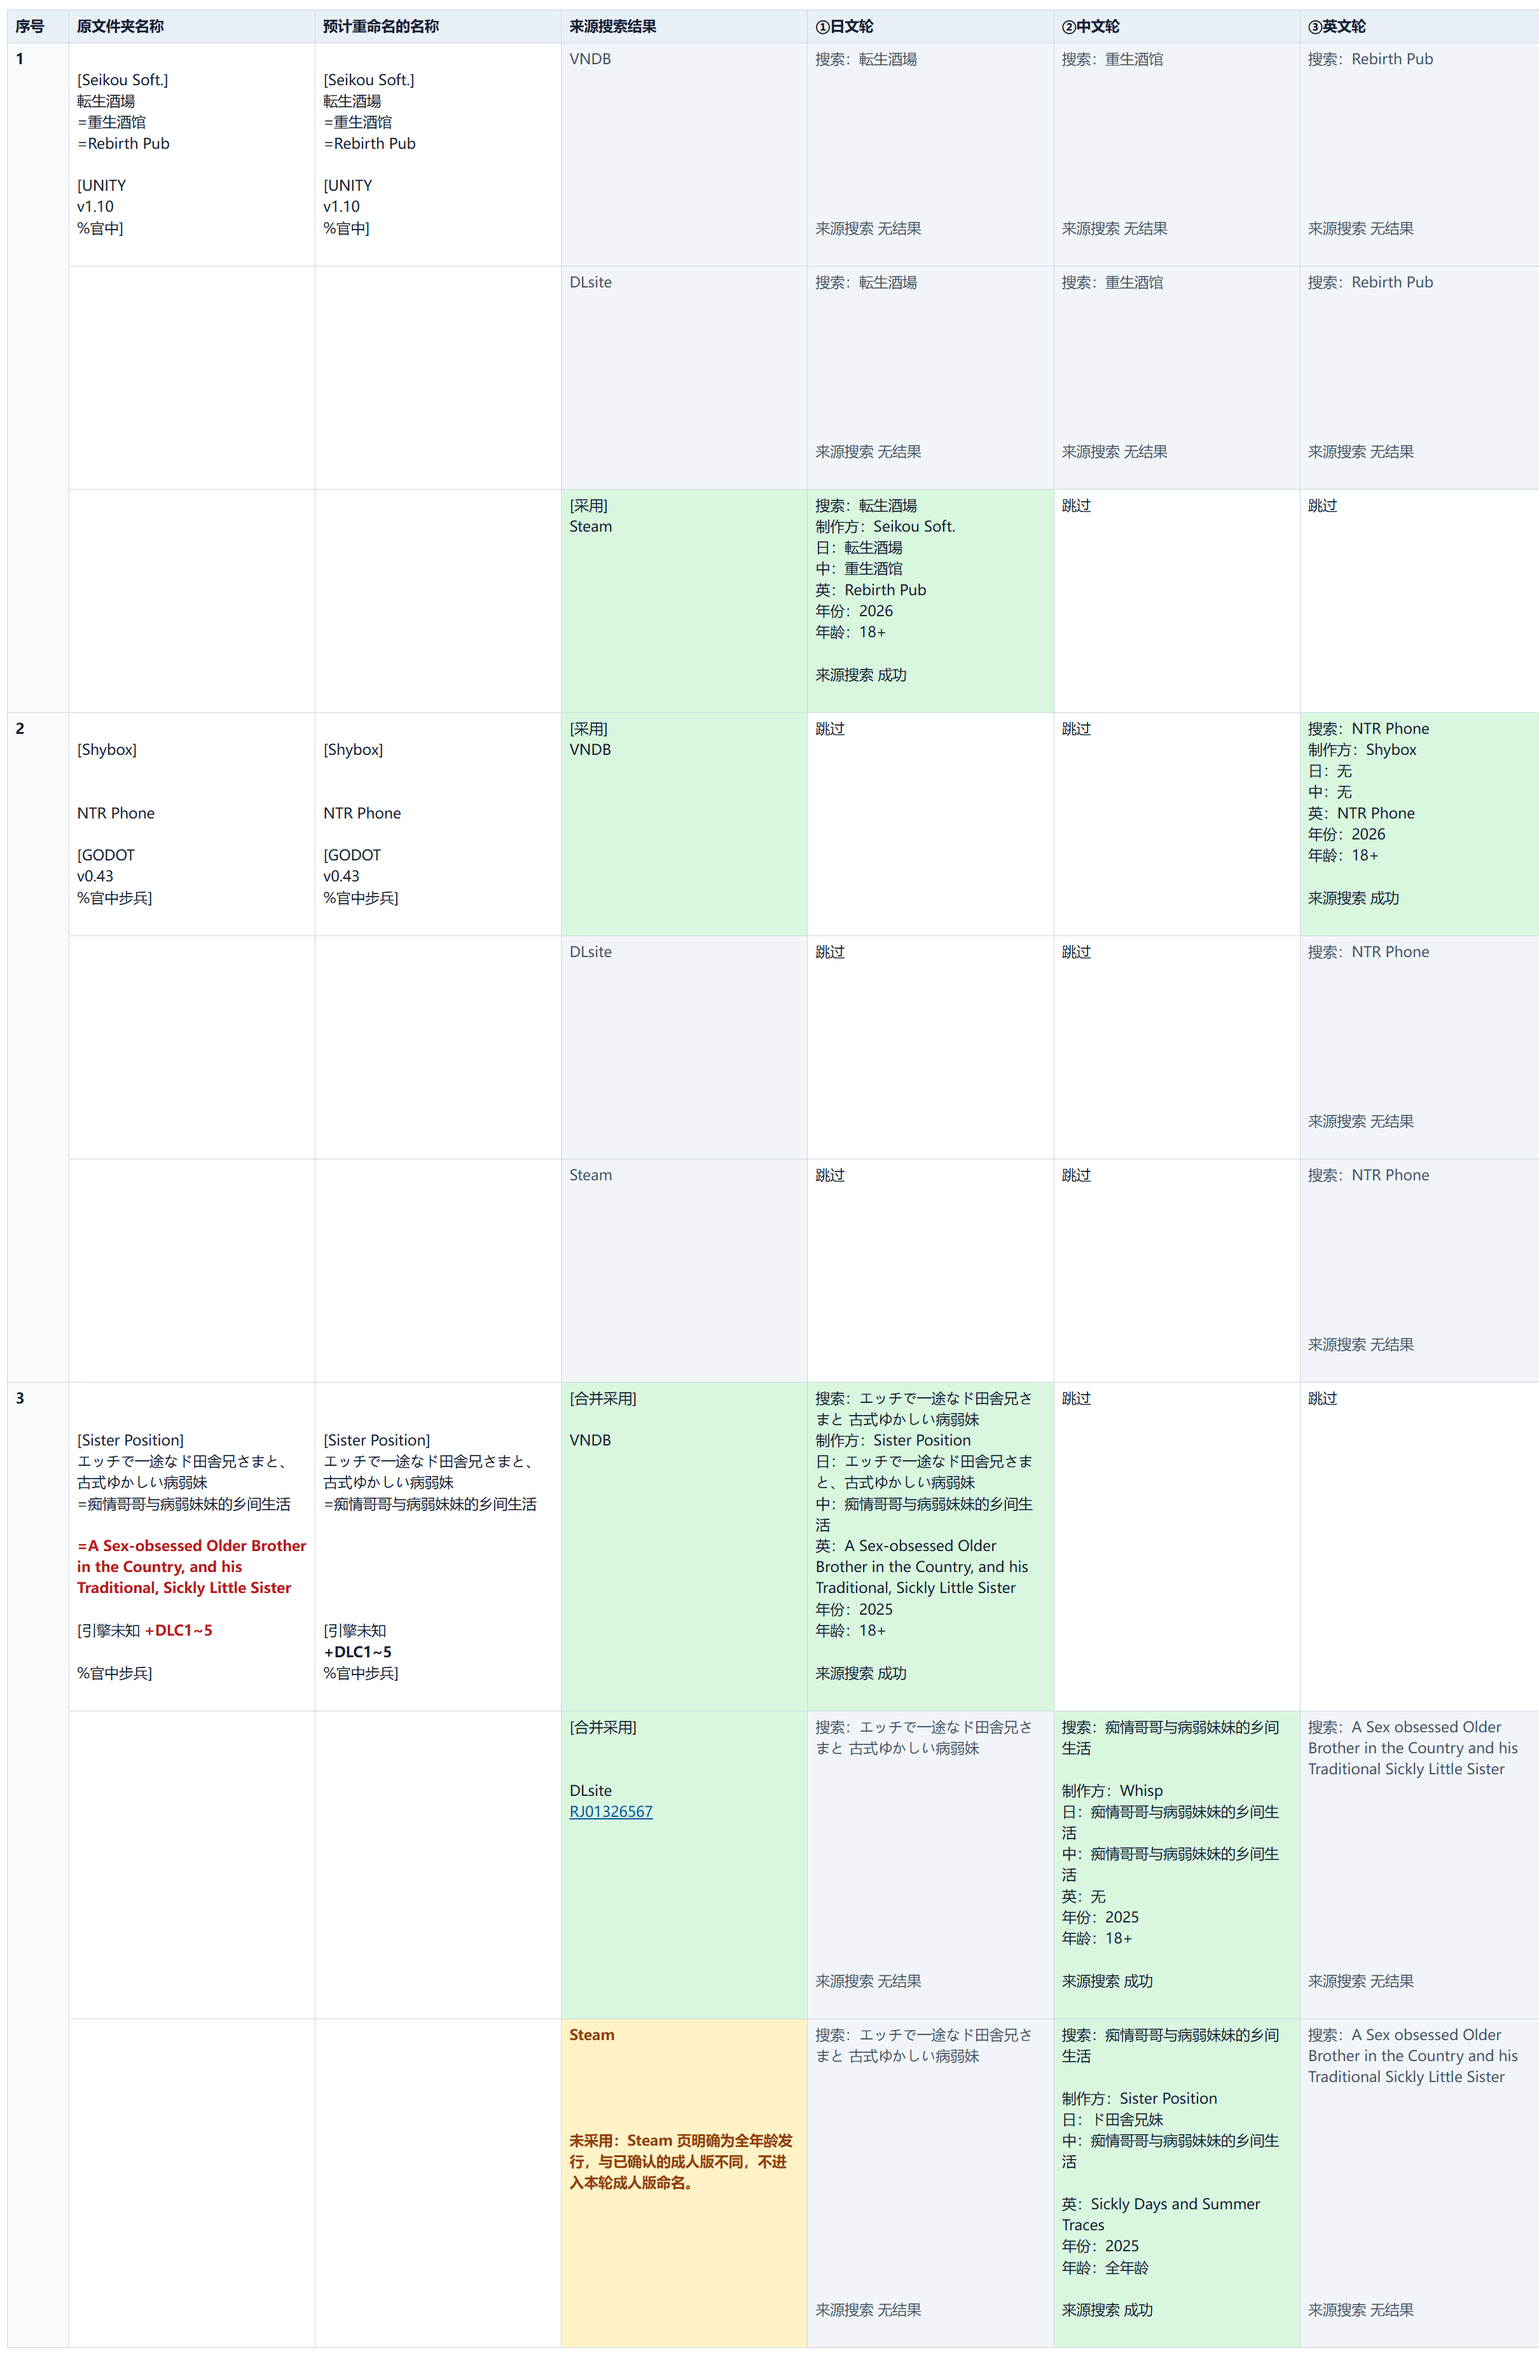
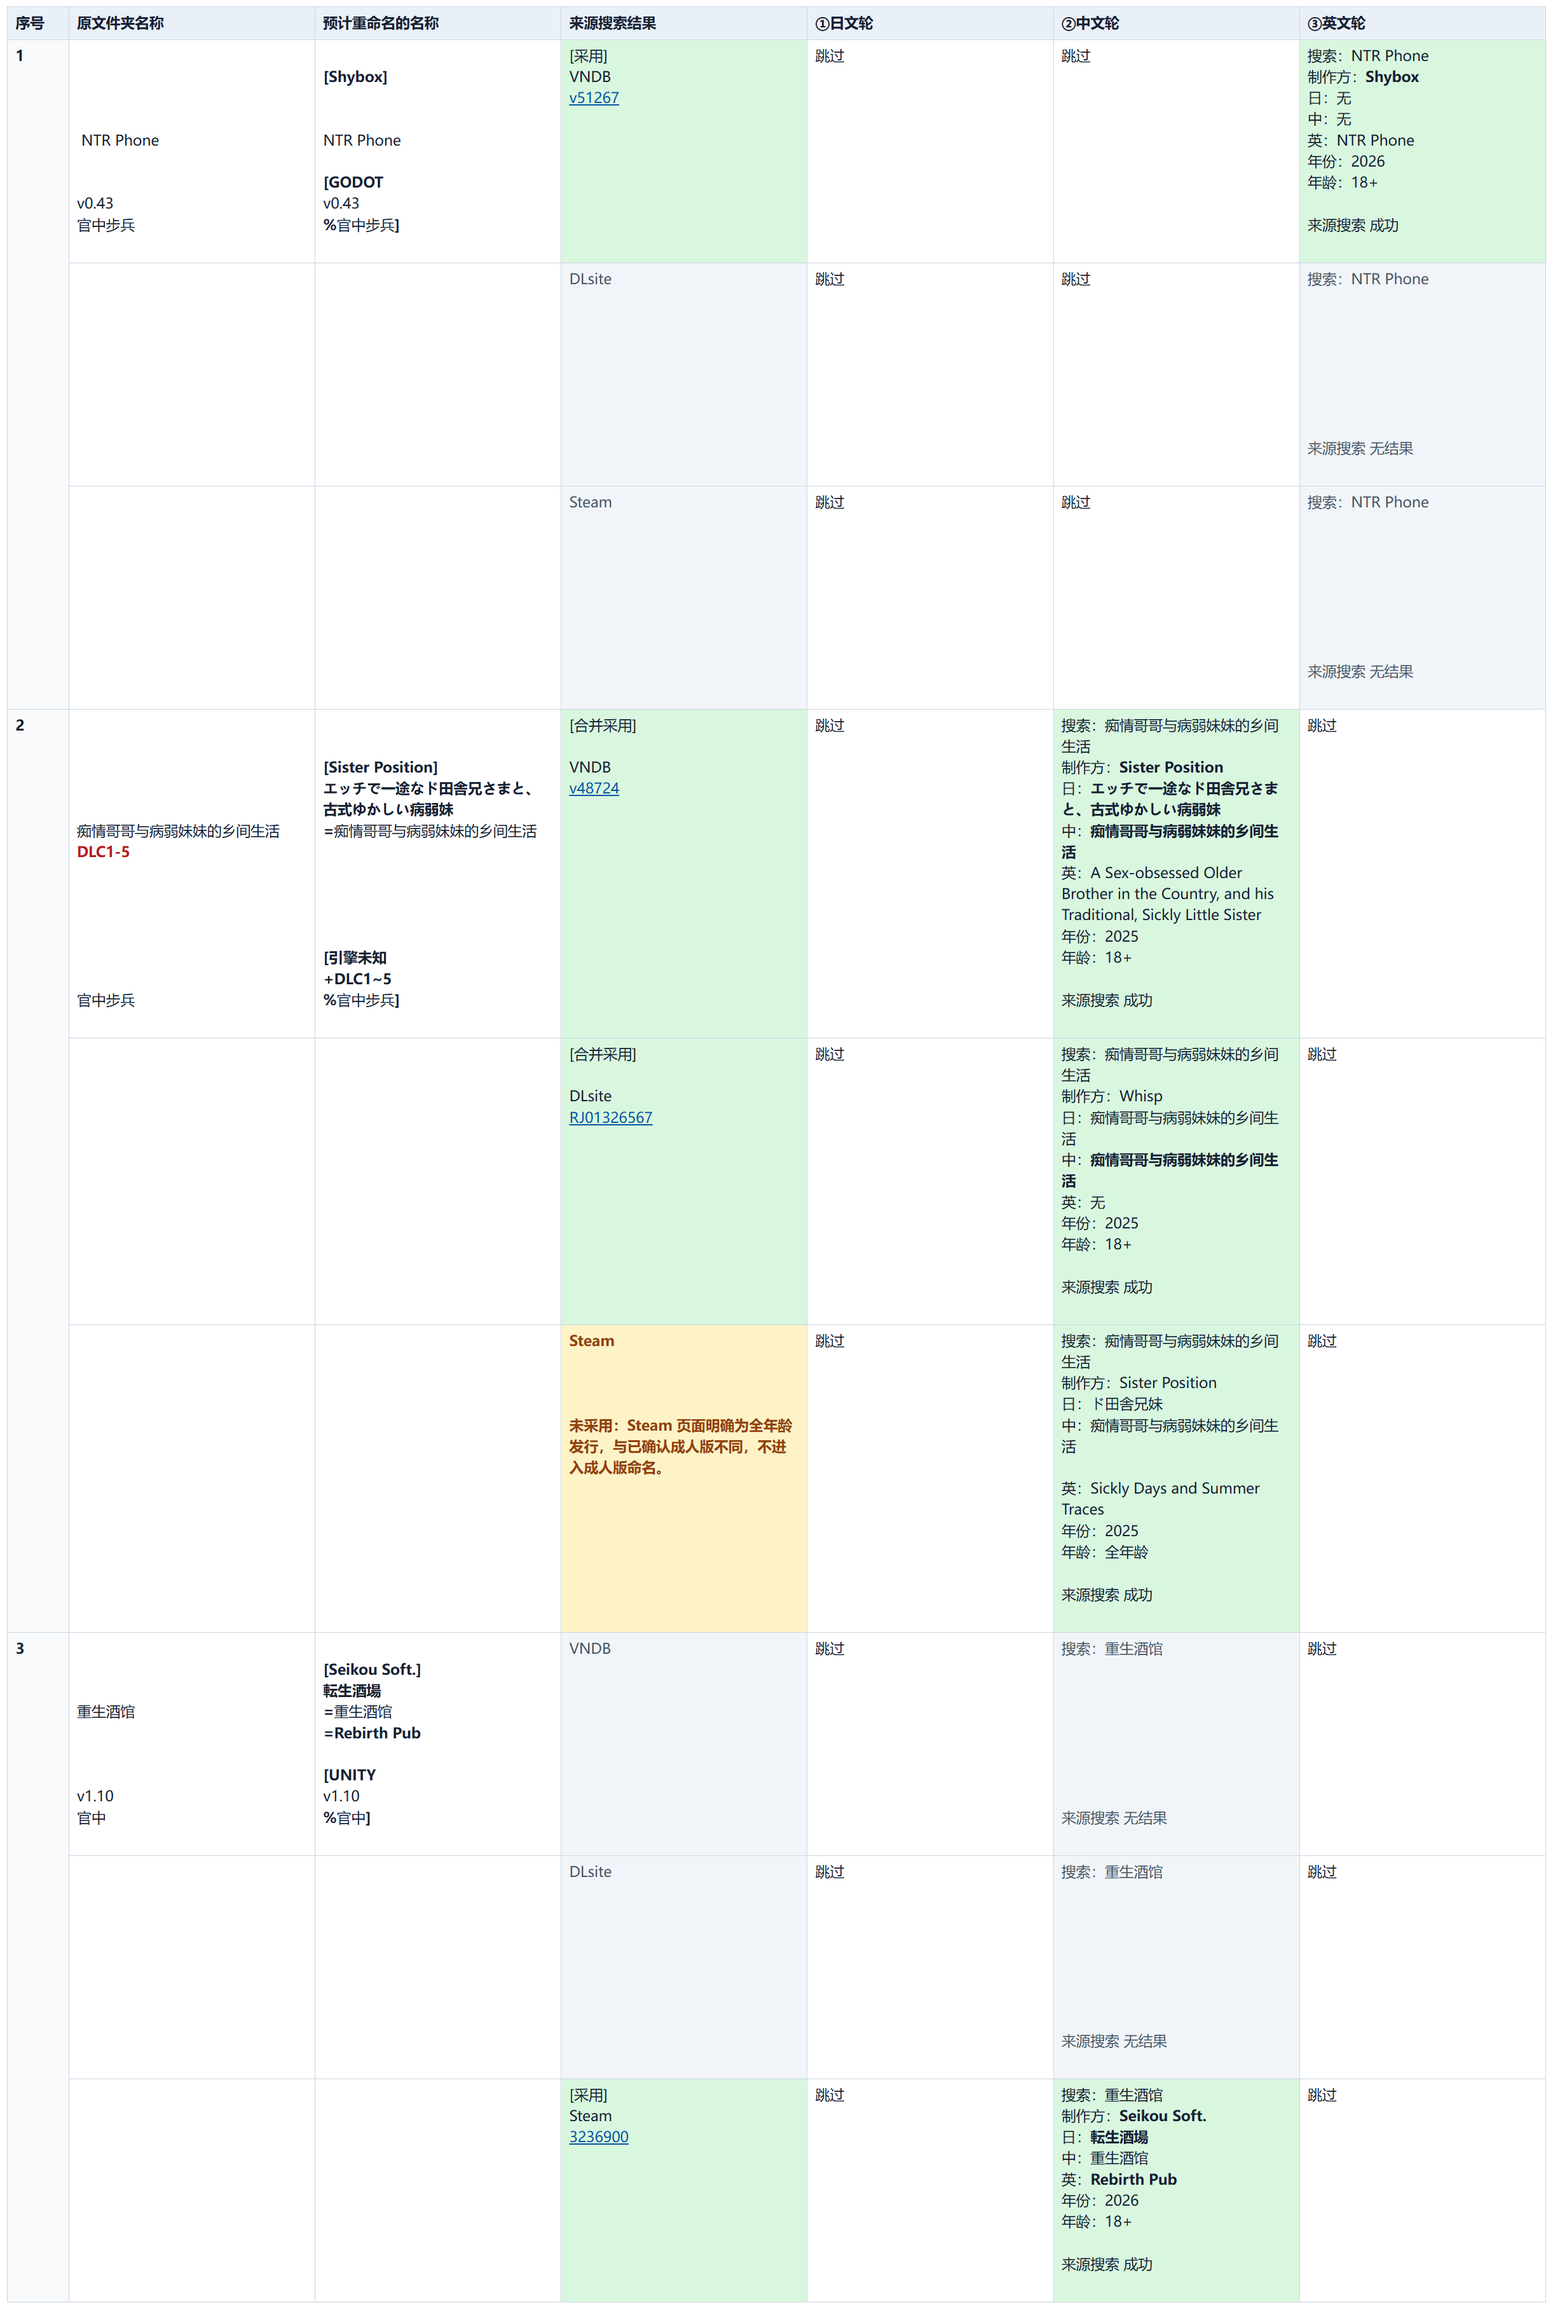
Show segmented three-folder Skill preview

diff --git a/tests/test_hierarchy_paths.py b/tests/test_hierarchy_paths.py
@@ -1,0 +1,50 @@
+"""层级决策保留真实目录 basename 的空白。"""
+
+from __future__ import annotations
+
+import sys
+import tempfile
+import unittest
+from pathlib import Path
+
+
+SCRIPT_DIRECTORY = (
+    Path(__file__).resolve().parents[1]
+    / ".agents" / "skills" / "renaming-game-folders" / "scripts"
+)
+sys.path.insert(0, str(SCRIPT_DIRECTORY))
+
+from rename_pipeline.hierarchy import build_scan_evidence, compile_hierarchy_semantics
+
+
+class HierarchyPathsTests(unittest.TestCase):
+    def test_preserves_leading_space_in_game_basename(self) -> None:
+        with tempfile.TemporaryDirectory() as tmp:
+            root = Path(tmp)
+            game = root / " Leading title v1.0"
+            game.mkdir()
+            (game / "Game.exe").touch()
+            scan = build_scan_evidence(root)
+            candidate = scan["executable_candidates"][0]
+            decisions = {
+                "schema_version": 2,
+                "decision_schema_version": 2,
+                "scan_fingerprint": scan["scan_fingerprint"],
+                "game_roots": [{
+                    "relative_path": game.name,
+                    "candidate_ids": [candidate["candidate_id"]],
+                    "type": "single_game_wrapper",
+                    "confidence": 0.99,
+                    "reason": "直属游戏启动项",
+                }],
+                "containers": [],
+            }
+
+            compiled = compile_hierarchy_semantics(scan, decisions)
+
+            self.assertEqual(compiled["game_roots"][0]["relative_path"], game.name)
+            self.assertEqual(compiled["game_roots"][0]["source_path"], str(game.resolve()))
+
+
+if __name__ == "__main__":
+    unittest.main()

diff --git a/.agents/skills/renaming-game-folders/scripts/rename_pipeline/hierarchy.py b/.agents/skills/renaming-game-folders/scripts/rename_pipeline/hierarchy.py
@@ -43,8 +43,8 @@ def _relative_path(root: Path, path: Path) -> str:
 
 
 def _resolve_relative_directory(root: Path, value: Any, label: str) -> Path:
-    text = str(value or "").strip()
-    if not text:
+    text = "" if value is None else str(value)
+    if not text.strip():
         raise ValueError(f"{label}不能为空")
     path = (root / Path(text)).resolve()
     if not _inside(path, root) or not path.is_dir():

diff --git a/README_EN.md b/README_EN.md
@@ -6,17 +6,23 @@ When game folders have partial titles, missing developers, or inconsistent versi
 
 ## Final result preview
 
-These are real before-and-after names, with local paths omitted:
+These three original names simulate folders before renaming. The right column comes from the Skill's formal preview; no folders were renamed:
 
 | Original folder name | Organized name |
 |---|---|
-| `重生酒馆 Rebirth Pub V1.10 官中` | `[Seikou Soft.] 転生酒場 =重生酒馆 =Rebirth Pub [UNITY v1.10 %官中]` |
-| `NTR手机  NTR Phone v0.43 官中步兵` | `[Shybox] NTR Phone [GODOT v0.43 %官中步兵]` |
-| `痴情哥哥与病弱妹妹的乡间生活 DLC1-5  steam 版 官中步兵` | `[Sister Position] エッチで一途なド田舎兄さまと、古式ゆかしい病弱妹 =痴情哥哥与病弱妹妹的乡间生活 =A Sex-obsessed Older Brother in the Country, and his Traditional, Sickly Little Sister [引擎未知 +DLC1~5 %官中步兵]` |
+| ` NTR Phone v0.43 官中步兵` | `[Shybox] NTR Phone [GODOT v0.43 %官中步兵]` |
+| `痴情哥哥与病弱妹妹的乡间生活 DLC1-5 官中步兵` | `[Sister Position] エッチで一途なド田舎兄さまと、古式ゆかしい病弱妹 =痴情哥哥与病弱妹妹的乡间生活 [引擎未知 +DLC1~5 %官中步兵]` |
+| `重生酒馆 v1.10 官中` | `[Seikou Soft.] 転生酒場 =重生酒馆 =Rebirth Pub [UNITY v1.10 %官中]` |
 
-This is the Skill's actual HTML preview when the three organized names above are scanned together. The first two stay unchanged; the third loses its English title under the 100-character name limit.
+The second name drops its English title under the 100-character limit; its DLC range and tags remain.
 
-[![Skill preview for three game folders](docs/images/three-folder-skill-preview.png)](docs/images/three-folder-skill-preview.png)
+These are three sections of the same Skill HTML preview. Click an image to view the [full seven-column table](docs/images/three-folder-skill-preview.png).
+
+[![1. NTR Phone before and after, with source queries](docs/images/preview-1-ntr-phone.png)](docs/images/three-folder-skill-preview.png)
+
+[![2. Sister Position game before and after, with source queries](docs/images/preview-2-sister-position.png)](docs/images/three-folder-skill-preview.png)
+
+[![3. Rebirth Pub before and after, with source queries](docs/images/preview-3-rebirth-pub.png)](docs/images/three-folder-skill-preview.png)
 
 The Skill uses reviewed matches and does not guess missing translations. Local tag meanings stay intact while their notation is normalized. The generated `preview.html` shows names, sources, and search evidence. Previewing changes no folders; applying requires that preview's approval code.
 

diff --git a/README.md b/README.md
@@ -6,17 +6,23 @@
 
 ## 最终效果预览
 
-以下为真实改名前后名称（已省略本机路径）：
+以下三个原名用于模拟重命名前目录；右列来自 Skill 的正式预览，尚未执行改名：
 
 | 原文件夹名称 | 整理后的名称 |
 |---|---|
-| `重生酒馆 Rebirth Pub V1.10 官中` | `[Seikou Soft.] 転生酒場 =重生酒馆 =Rebirth Pub [UNITY v1.10 %官中]` |
-| `NTR手机  NTR Phone v0.43 官中步兵` | `[Shybox] NTR Phone [GODOT v0.43 %官中步兵]` |
-| `痴情哥哥与病弱妹妹的乡间生活 DLC1-5  steam 版 官中步兵` | `[Sister Position] エッチで一途なド田舎兄さまと、古式ゆかしい病弱妹 =痴情哥哥与病弱妹妹的乡间生活 =A Sex-obsessed Older Brother in the Country, and his Traditional, Sickly Little Sister [引擎未知 +DLC1~5 %官中步兵]` |
+| ` NTR Phone v0.43 官中步兵` | `[Shybox] NTR Phone [GODOT v0.43 %官中步兵]` |
+| `痴情哥哥与病弱妹妹的乡间生活 DLC1-5 官中步兵` | `[Sister Position] エッチで一途なド田舎兄さまと、古式ゆかしい病弱妹 =痴情哥哥与病弱妹妹的乡间生活 [引擎未知 +DLC1~5 %官中步兵]` |
+| `重生酒馆 v1.10 官中` | `[Seikou Soft.] 転生酒場 =重生酒馆 =Rebirth Pub [UNITY v1.10 %官中]` |
 
-下图是将右列三个已整理目录再次作为一批输入时，Skill 实际生成的 HTML 预览。前两项保持原名；第三项因 100 字符名称上限去掉英文标题。
+第二项因 100 字符名称上限去掉英文标题；原有 DLC 范围和标签保留。
 
-[![三个游戏目录的 Skill 预览](docs/images/three-folder-skill-preview.png)](docs/images/three-folder-skill-preview.png)
+以下是同一份 Skill HTML 预览的三段截图，点击可查看 [完整七列表格](docs/images/three-folder-skill-preview.png)。
+
+[![1. NTR Phone 的改名前后与来源查询](docs/images/preview-1-ntr-phone.png)](docs/images/three-folder-skill-preview.png)
+
+[![2. 病弱妹妹的改名前后与来源查询](docs/images/preview-2-sister-position.png)](docs/images/three-folder-skill-preview.png)
+
+[![3. 重生酒馆的改名前后与来源查询](docs/images/preview-3-rebirth-pub.png)](docs/images/three-folder-skill-preview.png)
 
 Skill 只采用经审核的同作资料，不猜缺失的译名；本地标签保留原有语义，但写法会规范化。正式 `preview.html` 展示名称、来源与查询证据；预览不改目录，执行需要本次批准码。
 
